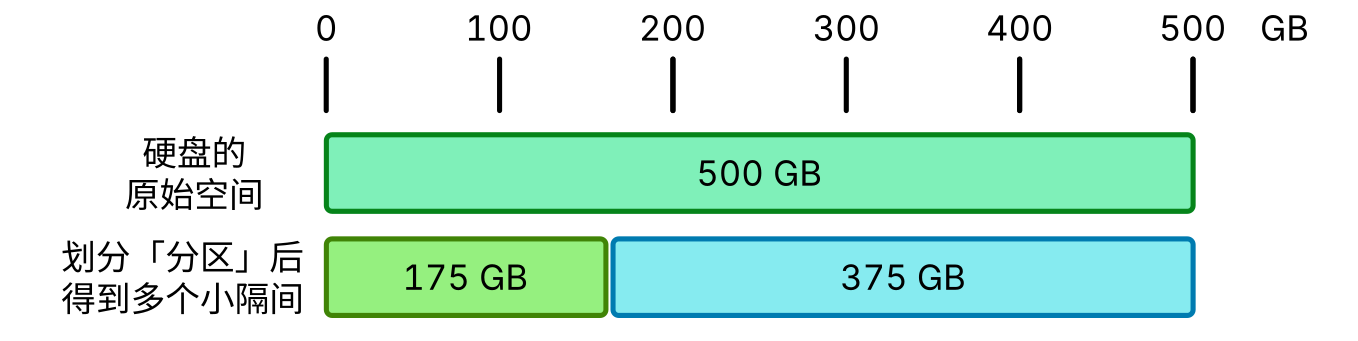
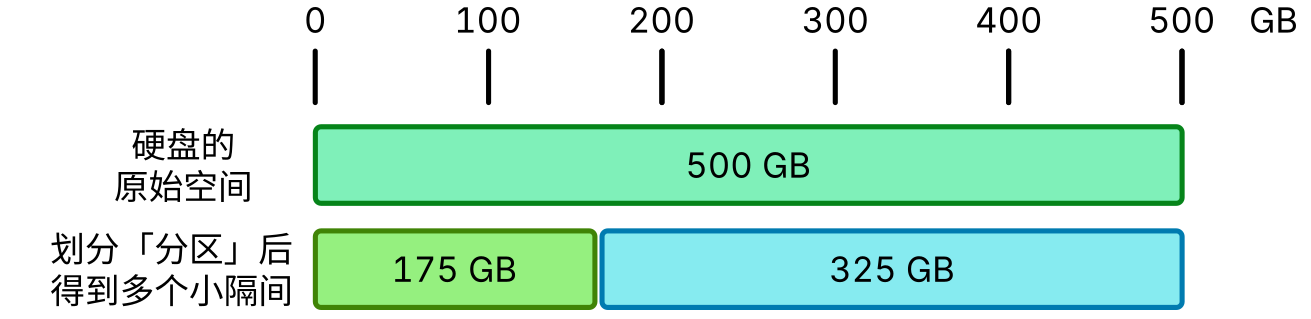
修整《文件》中的算术错误，更新图片

diff --git a/content/file-and-file-management.md b/content/file-and-file-management.md
@@ -39,7 +39,7 @@ type: docs
 
 ![两个分区](file-and-file-management/Partitions.png#center)
 
-例如，上图是一台电脑「文件资源管理器」中显示的分区。可以看到，这两个分区一个大小为 175 GB，另一个大小为 299 GB，相加为 474 GB——这是这台电脑的硬盘可用总空间。
+例如，上图是一台电脑「文件资源管理器」中显示的分区。可以看到，这两个分区一个大小为 429 GB，另一个大小为 470 GB，相加为 899 GB——这是这台电脑的硬盘可用总空间。
 
 划分分区的意义，在于帮助我们更好地管理文件。分区划分之后，各个分区之间就仿佛被「隔离」开来了。即使我们「格式化」一个分区（这样会删除这个分区中的所有文件），也不会影响另外一个分区里面的文件。
 
